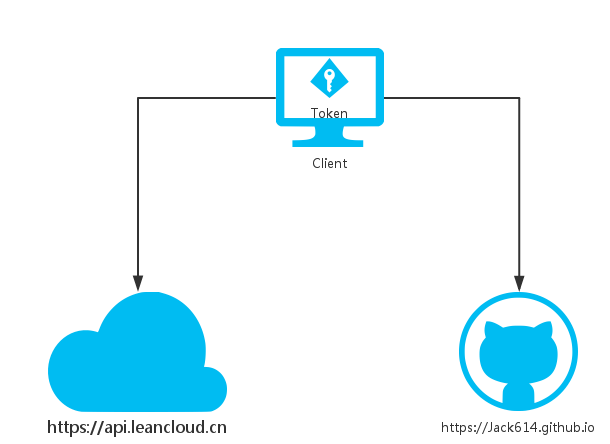
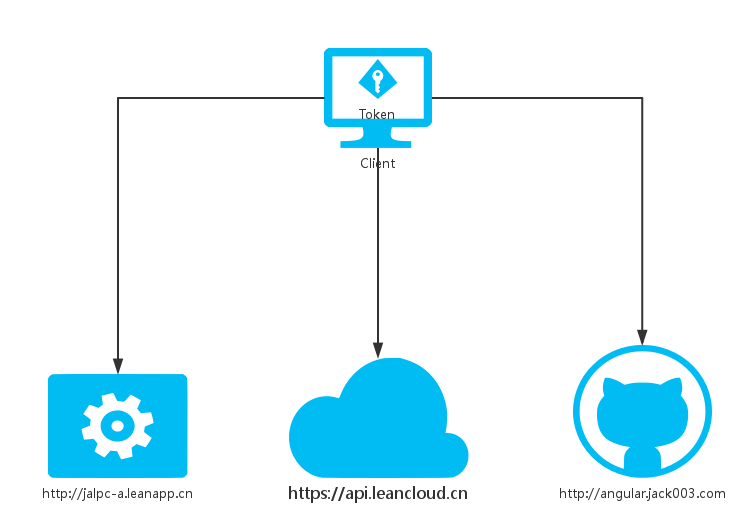
edit readme

Changed region(s): [[0.0623, 0.0878, 0.9656, 0.9955]]

diff --git a/README.md b/README.md
@@ -86,7 +86,7 @@ Since the project is **open source**, we must consider user's username and passw
 
 ![connect](connect.png)
 
-Client get the web application files(html,css,js),the push requrst to Leancloud, now both connect use https and Angularjs only save user's token on brower.
+Client get the web application files(html,css,js) from `http://angular.jack003.com`, all the user account connections and token connections are with `https://api.leancloud.cn`, and some jsonp scripts are with `http://jalpc-a.leanapp.cn` such as github login and blog's short url.
 
 ##
 
